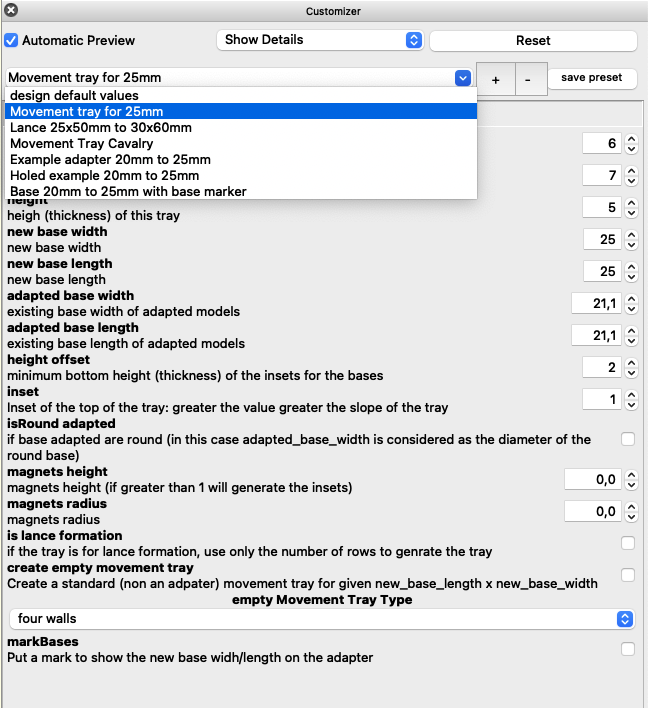
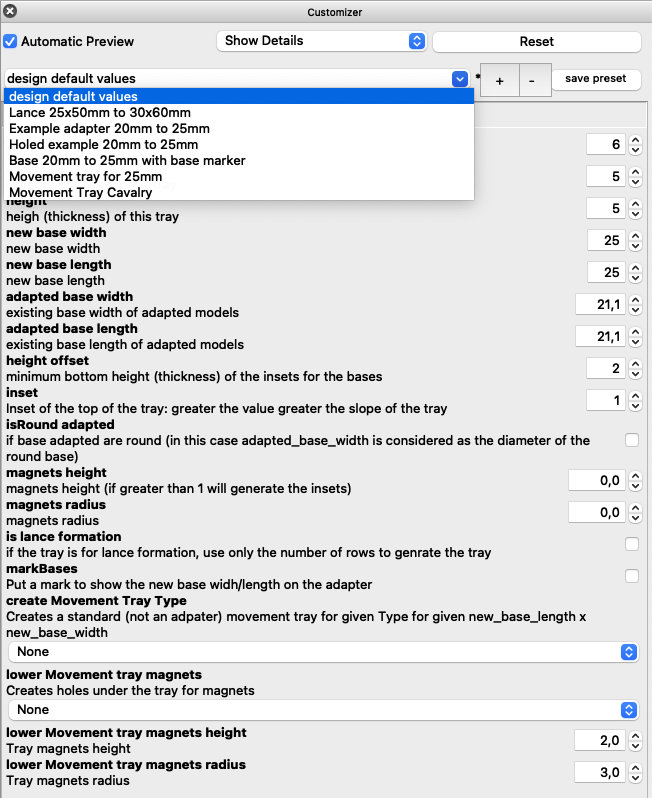
Update docs and typos fix

Changed region(s): [[0.0, 0.0, 1.0, 1.0], [0.463, 0.0, 0.5556, 0.0311], [0.9259, 0.9633, 0.9568, 0.9944]]

diff --git a/README.md b/README.md
@@ -120,6 +120,15 @@ With 4 walls
 
 <img src="empty_lance_4_walls.png" alt="lance_movement_standard" width="600" >
 
+### Magnetized Tray (support for 4,5,7,9 magnets)
+
+With ```lower_Movement_tray_magnets``` you can set the number of magnets holes to magnetize your tray/adapter for transportation
+
+<img src="lower_magnets_5.png" alt="lower_magnets_5" width="600" >
+
+<img src="lower_magnets_9.png" alt="lower_magnets_9" width="600" >
+
+
 
 ### One mini adapter
 
